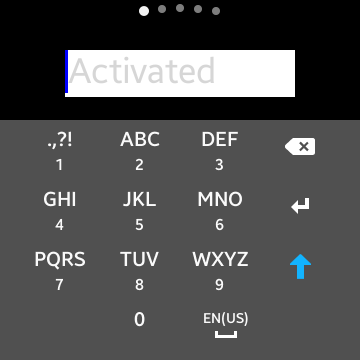
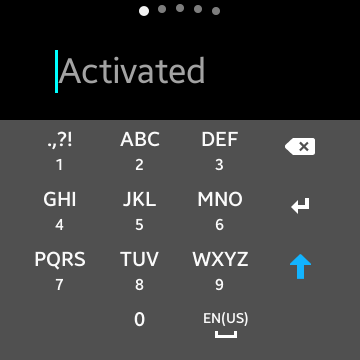
Update TextField screenshot
- Updated TextField screenshot for background color

Changed region(s): [[0.1528, 0.1222, 0.825, 0.275]]

diff --git a/wearable-samples/Text/TextField/TextFieldExample.cs b/wearable-samples/Text/TextField/TextFieldExample.cs
@@ -34,15 +34,15 @@ public class TextFieldExample : NUIApplication
         // Create a TextField
         TextField field = new TextField()
         {
-            Size = new Size(230, 47),
+            Size = new Size(250, 47),
             Position =  new Position(0, 50),
-            BackgroundColor = Color.White,
+            BackgroundColor = Color.Black,
 
             // Set TextField properties, such as PlaceholderText and PrimaryCursorColor
             PointSize = 9.0f,
             PlaceholderText = "Tap to enter text",
             PlaceholderTextFocused = "Activated",
-            PrimaryCursorColor = Color.Blue,
+            PrimaryCursorColor = Color.Cyan,
 
             // Positioning it to the top center
             ParentOrigin = ParentOrigin.TopCenter,

diff --git a/wearable-samples/Text/TextField/README.md b/wearable-samples/Text/TextField/README.md
@@ -26,15 +26,15 @@ public class TextFieldExample : NUIApplication
         // Create a TextField
         TextField field = new TextField()
         {
-            Size = new Size(230, 47),
+            Size = new Size(250, 47),
             Position =  new Position(0, 50),
-            BackgroundColor = Color.White,
+            BackgroundColor = Color.Black,
 
-            // Be able to set TextField properties
+            // Set TextField properties, such as PlaceholderText and PrimaryCursorColor
             PointSize = 9.0f,
             PlaceholderText = "Tap to enter text",
             PlaceholderTextFocused = "Activated",
-            PrimaryCursorColor = Color.Blue,
+            PrimaryCursorColor = Color.Cyan,
 
             // Positioning it to the top center
             ParentOrigin = ParentOrigin.TopCenter,
